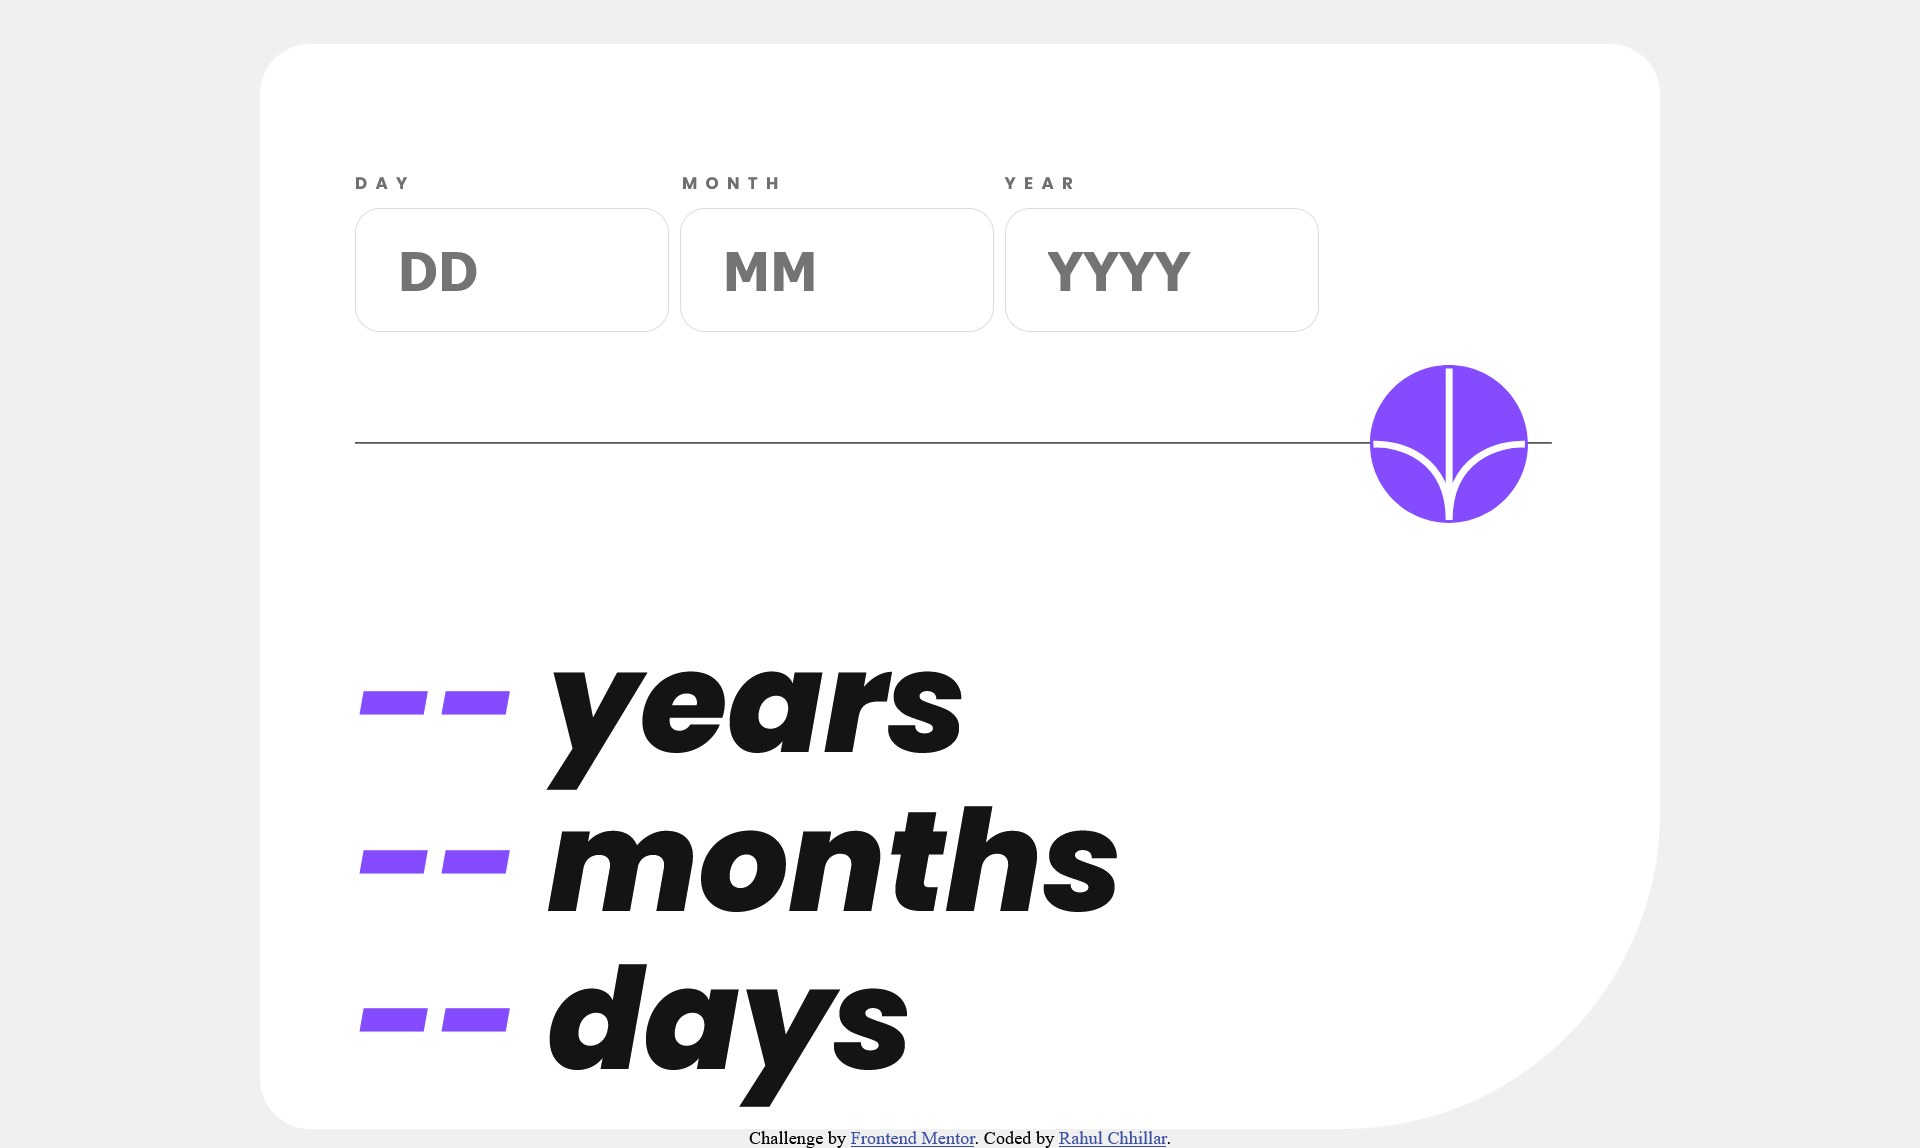
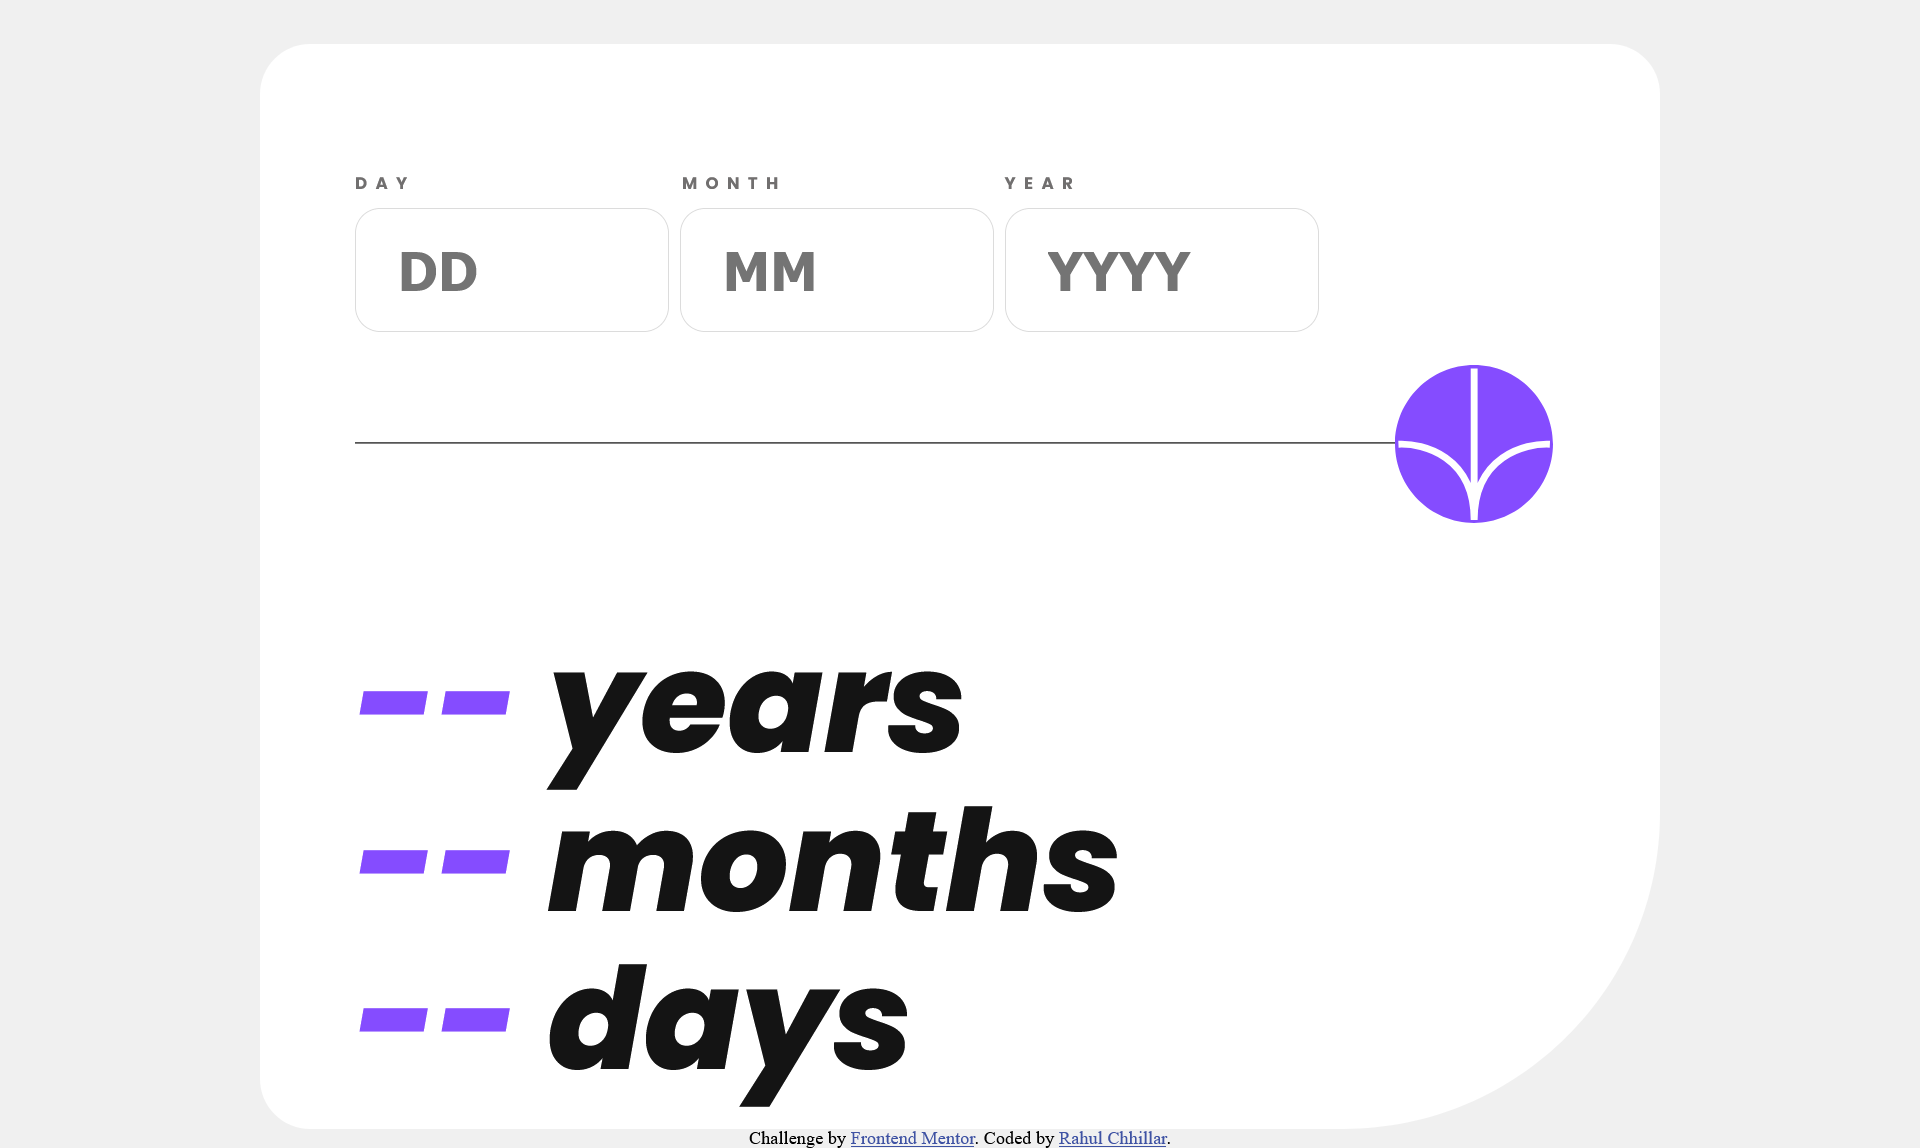
just give finishing

Changed region(s): [[0.6875, 0.3049, 0.8125, 0.4573]]

diff --git a/age-calculator-app-main/style.css b/age-calculator-app-main/style.css
@@ -58,7 +58,7 @@ label[for="MM"]
     background-color:hsl(259, 100%, 65%);
     border-radius:95px;
     position:absolute;
-    left:822px;
+    left:837px;
     top:219px;
     
 }
